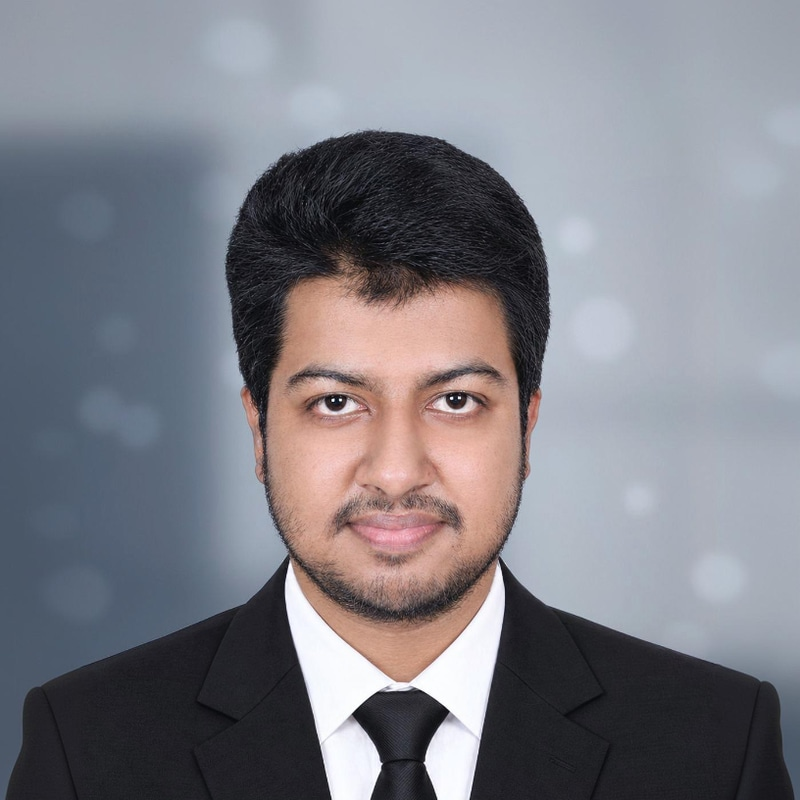
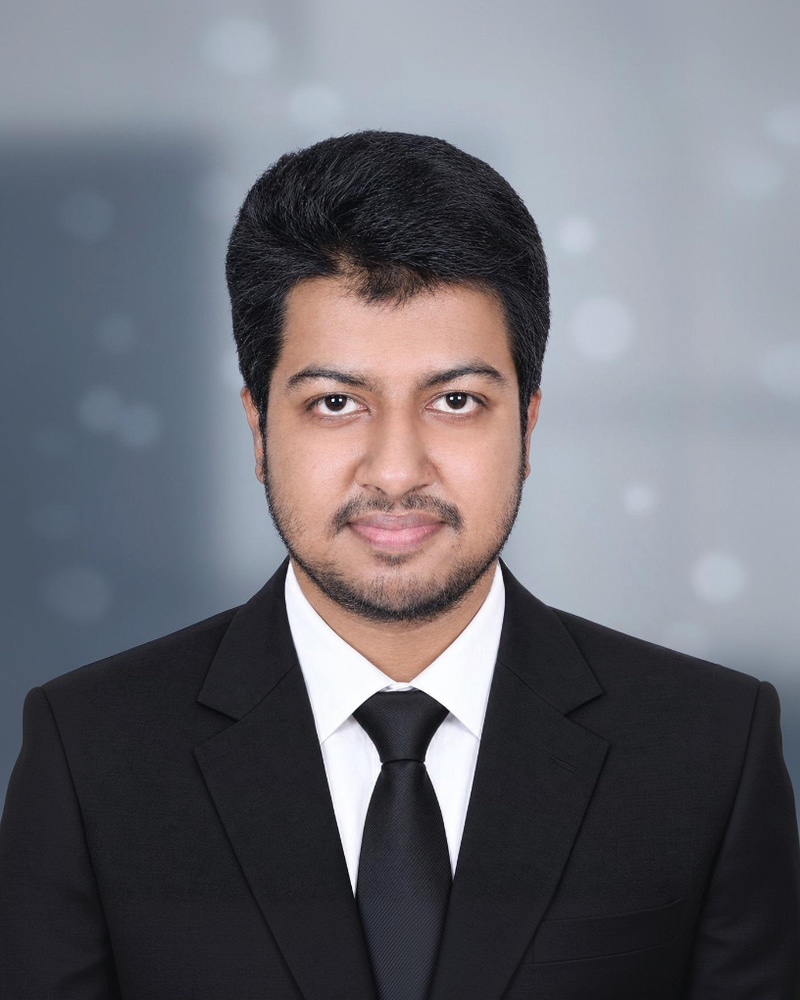
fix(hero): balance hero layout, eliminate top empty space, and resize portrait card

diff --git a/src/pages/Components/Hero/HeroSection.jsx b/src/pages/Components/Hero/HeroSection.jsx
@@ -82,7 +82,7 @@ const HeroSection = () => {
   return (
     <section
       id='top'
-      className='relative pt-24 sm:pt-32 md:pt-40 pb-16 sm:pb-20 md:pb-28 border-b border-[var(--border-card)] overflow-hidden'
+      className='relative pt-16 sm:pt-20 md:pt-24 pb-12 sm:pb-16 md:pb-20 border-b border-[var(--border-card)] overflow-hidden'
       aria-label='Introduction'
     >
       {/* Signature background — grid + gradient blobs */}
@@ -112,7 +112,7 @@ const HeroSection = () => {
       />
 
       <div className='container-page relative'>
-        <div className='grid lg:grid-cols-12 gap-10 sm:gap-12 lg:gap-14 items-center'>
+        <div className='grid lg:grid-cols-12 gap-8 sm:gap-10 lg:gap-12 items-start'>
           {/* Copy */}
           <motion.div {...intro(0)} className='lg:col-span-7'>
             {/* Availability pill — emerald badge-accent */}
@@ -166,36 +166,30 @@ const HeroSection = () => {
           {/* Interactive bento visual */}
           <motion.div {...intro(0.08)} className='lg:col-span-5 order-last lg:order-last'>
             <div className='grid grid-cols-2 gap-3 sm:gap-4 max-w-md mx-auto lg:mx-0 lg:ml-auto'>
-              {/* Portrait tile — spans full width row */}
-              <div className='col-span-2 rounded-2xl border border-[var(--border-card)] hover:border-[var(--border-card-hover)] p-0 overflow-hidden bg-[var(--bg-card)] shadow-xs transition-all duration-300'>
-                <div className='relative aspect-square overflow-hidden group'>
+              {/* Portrait tile — compact balanced profile card */}
+              <div className='col-span-1 rounded-2xl border border-[var(--border-card)] hover:border-[var(--border-card-hover)] p-0 overflow-hidden bg-[var(--bg-card)] shadow-xs transition-all duration-300'>
+                <div className='relative aspect-[4/5] sm:aspect-square overflow-hidden group'>
                   <picture>
                     {personal.portraitWebp && <source srcSet={personal.portraitWebp} type='image/webp' />}
                     <img
                       src={personal.portrait}
                       alt={`${personal.name} — portrait`}
                       width='800'
-                      height='800'
+                      height='1000'
                       fetchpriority='high'
                       decoding='async'
-                      className='w-full h-full object-cover object-top transition-transform duration-500 ease-out group-hover:scale-[1.01]'
+                      className='w-full h-full object-cover object-top transition-transform duration-500 ease-out group-hover:scale-[1.02]'
                     />
                   </picture>
                   <div
                     aria-hidden
                     className='absolute inset-0 pointer-events-none'
                     style={{
-                      background: 'linear-gradient(180deg, transparent 65%, rgba(0,0,0,0.45) 100%)',
+                      background: 'linear-gradient(180deg, transparent 65%, rgba(0,0,0,0.5) 100%)',
                     }}
                   />
-                  <div className='absolute bottom-3 left-3 right-3 flex items-center justify-between gap-2 pointer-events-none'>
-                    <div className='inline-flex items-center gap-2 px-3 py-1.5 rounded-xl bg-black/45 backdrop-blur-md border border-white/10'>
-                      <span className='w-1.5 h-1.5 rounded-full bg-emerald-400' />
-                      <span className='text-white text-[12px] font-medium tracking-tight'>
-                        {personal.role.split(',')[0]}
-                      </span>
-                    </div>
-                    <div className='inline-flex items-center gap-1.5 px-3 py-1.5 rounded-xl bg-black/45 backdrop-blur-md border border-white/10 text-emerald-300 text-[11px] font-mono'>
+                  <div className='absolute bottom-2.5 left-2.5 right-2.5 flex items-center justify-center pointer-events-none'>
+                    <div className='inline-flex items-center gap-1.5 px-2.5 py-1 rounded-lg bg-black/60 backdrop-blur-md border border-white/10 text-emerald-300 text-[11px] font-mono'>
                       <span className='w-1.5 h-1.5 rounded-full bg-emerald-400 animate-pulse' />
                       Open to roles
                     </div>
@@ -203,14 +197,16 @@ const HeroSection = () => {
                 </div>
               </div>
 
-              {/* Live code demo */}
+              {/* Small stats stacked beside portrait */}
+              <div className='col-span-1 flex flex-col justify-between gap-3 sm:gap-4'>
+                <StatCell label='Shipped' value='3 platforms' icon={Zap} />
+                <StatCell label='Stack' value='React · Next · Node' icon={Code2} />
+              </div>
+
+              {/* Live code demo across full width */}
               <div className='col-span-2'>
                 <LiveCodeCard />
               </div>
-
-              {/* Small stats */}
-              <StatCell label='Shipped' value='3 platforms' icon={Zap} />
-              <StatCell label='Stack' value='React · Next · Node' icon={Code2} />
             </div>
           </motion.div>
         </div>
